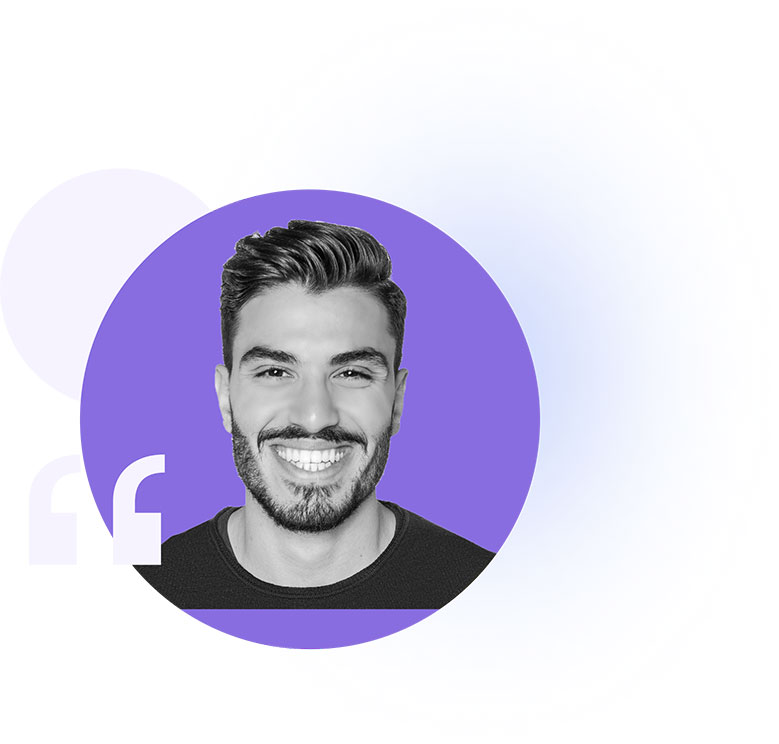
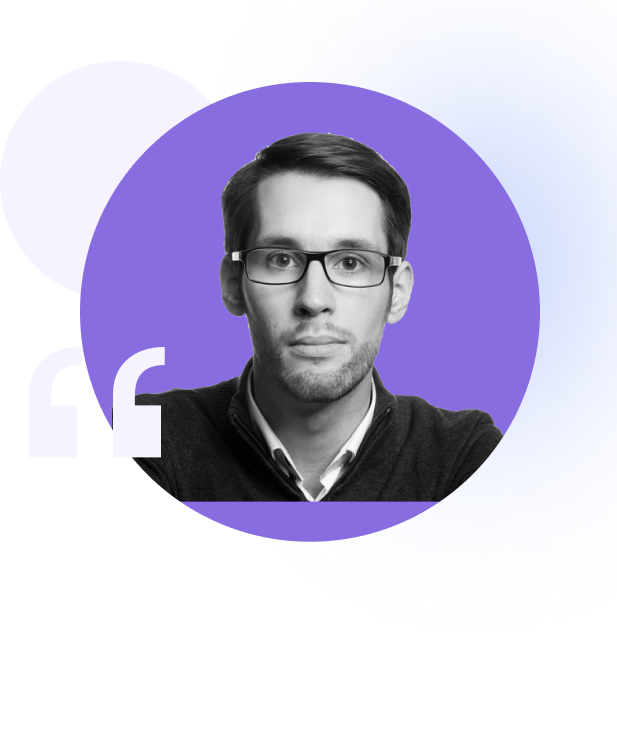
Update content

diff --git a/blin/src/app/components/new-com/data-safety/data-safety.component.html b/blin/src/app/components/new-com/data-safety/data-safety.component.html
@@ -8,12 +8,22 @@
                 <div class="buildtwinSafety">
                     <h2>BuildTwin Safety <i><img src="assets/images/data-safety/heading-arrow.png" width="50"
                                 height="26" alt=""></i></h2>
-                    <p>Lorem Ipsum is simply dummy text of the printing and typesetting industry. Lorem Ipsum has been
-                        the industry's standard dummy text ever since the 1500s, when an unknown printer took a galley
-                        of type and scrambled it to make a type specimen book. It has survived not only five centuries,
-                        but also the leap into electronic typesetting, remaining essentially unchanged. It was
-                        popularised in the 1960s</p>
-                    <a mat-button routerLink="/" class="default-btn">Read our Whitepaper</a>
+                    <p>
+
+                        At BuildTwin, we understand that our commitment to data safety empowers engineers to 
+                        innovate, collaborate, and execute projects with peace of mind, knowing that their valuable 
+                        information is safe and protected every step of the way. 
+                        <br><br>
+                        Our AI-driven project management platform is meticulously designed with industry-leading 
+                        privacy protocols to ensure that your data remains confidential, secure, and under 
+                        your control. 
+                        <br><br>
+                        We prioritize the safeguarding of your digital assets, incorporating advanced encryption, continuous 
+                        risk assessments, and customized privacy settings that align with the most stringent compliance 
+                        standards. 
+                    </p>
+                    <br>
+                    <a mat-button routerLink="/" class="default-btn">Request our Whitepaper</a>
                 </div>
             </div>
             <div>
@@ -24,9 +34,9 @@
                     </picture>
                 </figure>
                 <div class="profileInfo">
-                    <h4>Ashish Awasthi</h4>
-                    <span>Head of Safety</span>
-                    <strong>BuildTwin AI Design Manager was used to <br>deliver for Westgate project in AUS</strong>
+                    <h4>Jan Werner</h4>
+                    <span>Founder</span>
+                    <strong></strong>
                 </div>
             </div>
         </div>
@@ -36,26 +46,33 @@
                 <div class="picBox">
                     <i><img src="assets/images/data-safety/p-icon.png" width="98" height="118" alt=""></i>
                     <h4>Privacy</h4>
-                    <p>platform.With more than 500+ employees, J&F India is managed through the BuildTwin platform.With
-                        more than 500+ employees, J&F India is managed through the Bu platform.With more than 500+
-                        employees, J&F India is managed through the BuildTwin platform.With more than 500+ employees,
-                        J&F India is managed through the Bu</p>
+                    <p>
+                        Our 'Privacy by Design' approach not only respects personal boundaries but also ensures strict adherence to 
+                        the GDPR framework. We handle personal data with exceptional care, upholding confidentiality with advanced 
+                        access controls and anonymization techniques. Your data remains yours alone, managed with robust settings 
+                        for a wholly private experience within our platform.
+                    </p>
                 </div>
                 <div class="picBox">
                     <i><img src="assets/images/data-safety/i-icon.png" width="31" height="118" alt=""></i>
                     <h4>Infosec</h4>
-                    <p>platform.With more than 500+ employees, J&F India is managed through the BuildTwin platform.With
-                        more than 500+ employees, J&F India is managed through the Bu platform.With more than 500+
-                        employees, J&F India is managed through the BuildTwin platform.With more than 500+ employees,
-                        J&F India is managed through the Bu</p>
+                    <p>
+                        Our platform secures your data within a virtual private network, creating an exclusive, closed 
+                        work environment for each client. This dedicated space stands strong against intrusions, accessible 
+                        to none but your team, ensuring that third parties can not compromise your data. With vigilant 
+                        cybersecurity practices and proactive defenses, your project's integrity is our Infosec team’s 
+                        top priority.
+                    </p>
                 </div>
                 <div class="picBox">
                     <i><img src="assets/images/data-safety/c-icon.png" width="109" height="118" alt=""></i>
                     <h4>Compliance</h4>
-                    <p>platform.With more than 500+ employees, J&F India is managed through the BuildTwin platform.With
-                        more than 500+ employees, J&F India is managed through the Bu platform.With more than 500+
-                        employees, J&F India is managed through the BuildTwin platform.With more than 500+ employees,
-                        J&F India is managed through the Bu</p>
+                    <p>p
+                        Compliance is seamlessly integrated into every layer of BuildTwin. Our platform not only adheres 
+                        to legal standards but enables automatic management of your compliance needs. We ensure that 
+                        our system aligns with industry regulations and specific compliance requirements from client, providing 
+                        a streamlined experience where compliance is embedded within your workflow.
+                        </p>
                 </div>
             </div>
         </div>
@@ -65,10 +82,13 @@
                     srcset="assets/images/data-safety/fully-encryp@2x.jpg 2x" width="1296" height="333" alt="">
             </picture>
             <div class="content">
-                <h3>Fully Encrypted - End to End</h3>
-                <p>Full course structure & learning outcomes of our BuildTwin Architecture CourseFull course structure &
-                    learning outcomes of our BuildTwin Architecture CourseFull course structure & learning outcomes of
-                    our BuildTwin Architecture Course</p>
+                <h3>End to End Fully Encrypted</h3>
+                <p>
+                    At BuildTwin, every interaction is shielded with SSL encryption, while back-end transactions are locked 
+                    down within a secure VPC network, guaranteeing your data's integrity from the inside out. Our embedded 
+                    trust system is integrated into every workflow, automating compliance tasks and reducing manual work, allowing 
+                    you to focus on engineering while we ensure your operations remain compliant and secure.        
+                </p>
             </div>
         </div>
         <div class="certificate">
@@ -85,8 +105,8 @@
                                 </picture>
                             </div>
                             <div class="icon-info">
-                                <h6>Building code Etraining</h6>
-                                <span>Everyone prefers to enjoy learning at their own pace </span>
+                                <h6>Automated Backups</h6>
+                                <span>Your data is continously backuped in different regions </span>
                             </div>
                         </div>
                     </ng-template>
@@ -100,8 +120,8 @@
                                 </picture>
                             </div>
                             <div class="icon-info">
-                                <h6>Building code Etraining</h6>
-                                <span>Everyone prefers to enjoy learning at their own pace </span>
+                                <h6>Closed VPC</h6>
+                                <span>Your instance and all transaction is shielded by a dedicaded VPC network.</span>
                             </div>
                         </div>
                     </ng-template>
@@ -115,8 +135,8 @@
                                 </picture>
                             </div>
                             <div class="icon-info">
-                                <h6>Building code Etraining</h6>
-                                <span>Everyone prefers to enjoy learning at their own pace </span>
+                                <h6>Private Key Encryption</h6>
+                                <span>All transactions and storage are end-to-end encrypted signed by your private key</span>
                             </div>
                         </div>
                     </ng-template>
@@ -130,8 +150,8 @@
                                 </picture>
                             </div>
                             <div class="icon-info">
-                                <h6>Building code Etraining</h6>
-                                <span>Everyone prefers to enjoy learning at their own pace </span>
+                                <h6>SecOps Team</h6>
+                                <span>Our dedicated SecOps Teams continuously monitor the integrity of our systems.</span>
                             </div>
                         </div>
                     </ng-template>
@@ -145,8 +165,8 @@
                                 </picture>
                             </div>
                             <div class="icon-info">
-                                <h6>Building code Etraining</h6>
-                                <span>Everyone prefers to enjoy learning at their own pace </span>
+                                <h6>Conspicuous behavior</h6>
+                                <span>Our security algorithm monitors conspicuous behavior and alerts you about unusual internal activities.</span>
                             </div>
                         </div>
                     </ng-template>
@@ -161,28 +181,19 @@
                     <ng-template carouselSlide>
                         <div class="item">
                             <h3>Third Party Audited</h3>
-                            <p>It is a long established fact that a reader will be distracted by the readable content of a page
-                                when the point of using point of using looking at its layout. The point of using Lorem Ipsum is
-                                that it has a more-or-less normal distribution of letters,</p>
-                            <a mat-button routerLink="/" class="default-btn">Read on Capterra</a>
-                        </div>
-                    </ng-template>
-                    <ng-template carouselSlide>
-                        <div class="item">
-                            <h3>Third Party Audited</h3>
-                            <p>It is a long established fact that a reader will be distracted by the readable content of a page
-                                when the point of using point of using looking at its layout. The point of using Lorem Ipsum is
-                                that it has a more-or-less normal distribution of letters,</p>
-                            <a mat-button routerLink="/" class="default-btn">Read on Capterra</a>
-                        </div>
-                    </ng-template>
-                    <ng-template carouselSlide>
-                        <div class="item">
-                            <h3>Third Party Audited</h3>
-                            <p>It is a long established fact that a reader will be distracted by the readable content of a page
-                                when the point of using point of using looking at its layout. The point of using Lorem Ipsum is
-                                that it has a more-or-less normal distribution of letters,</p>
-                            <a mat-button routerLink="/" class="default-btn">Read on Capterra</a>
+                            <p>
+                                BuildTwin stands for trust and reliability, with a commitment to excellence 
+                                that is continually verified by external experts. Our platform undergoes 
+                                rigorous and frequent audits by top-tier security, infrastructure, and data 
+                                privacy firms, ensuring that we not only meet but exceed industry standards. 
+                                <br><br>
+                                These comprehensive evaluations lead to certifications that reflect our dedication 
+                                to maintaining the highest level of security and privacy for our clients. With BuildTwin, you have 
+                                the assurance that an independent body of experts continually validates the strength 
+                                and resilience of our systems.
+
+                            </p>
+                            <a mat-button routerLink="/" class="default-btn">Request report</a>
                         </div>
                     </ng-template>
                 </owl-carousel-o>

diff --git a/blin/src/app/components/common/pricing/hd-pricing/hd-pricing.component.html b/blin/src/app/components/common/pricing/hd-pricing/hd-pricing.component.html
@@ -545,7 +545,7 @@
                                 </p>
                             </div>
                             <div class="colLast">
-                                <strong>Free</strong>
+                                <strong>1.000 USD</strong>
                                 <span></span>
                             </div>
                         </div>
